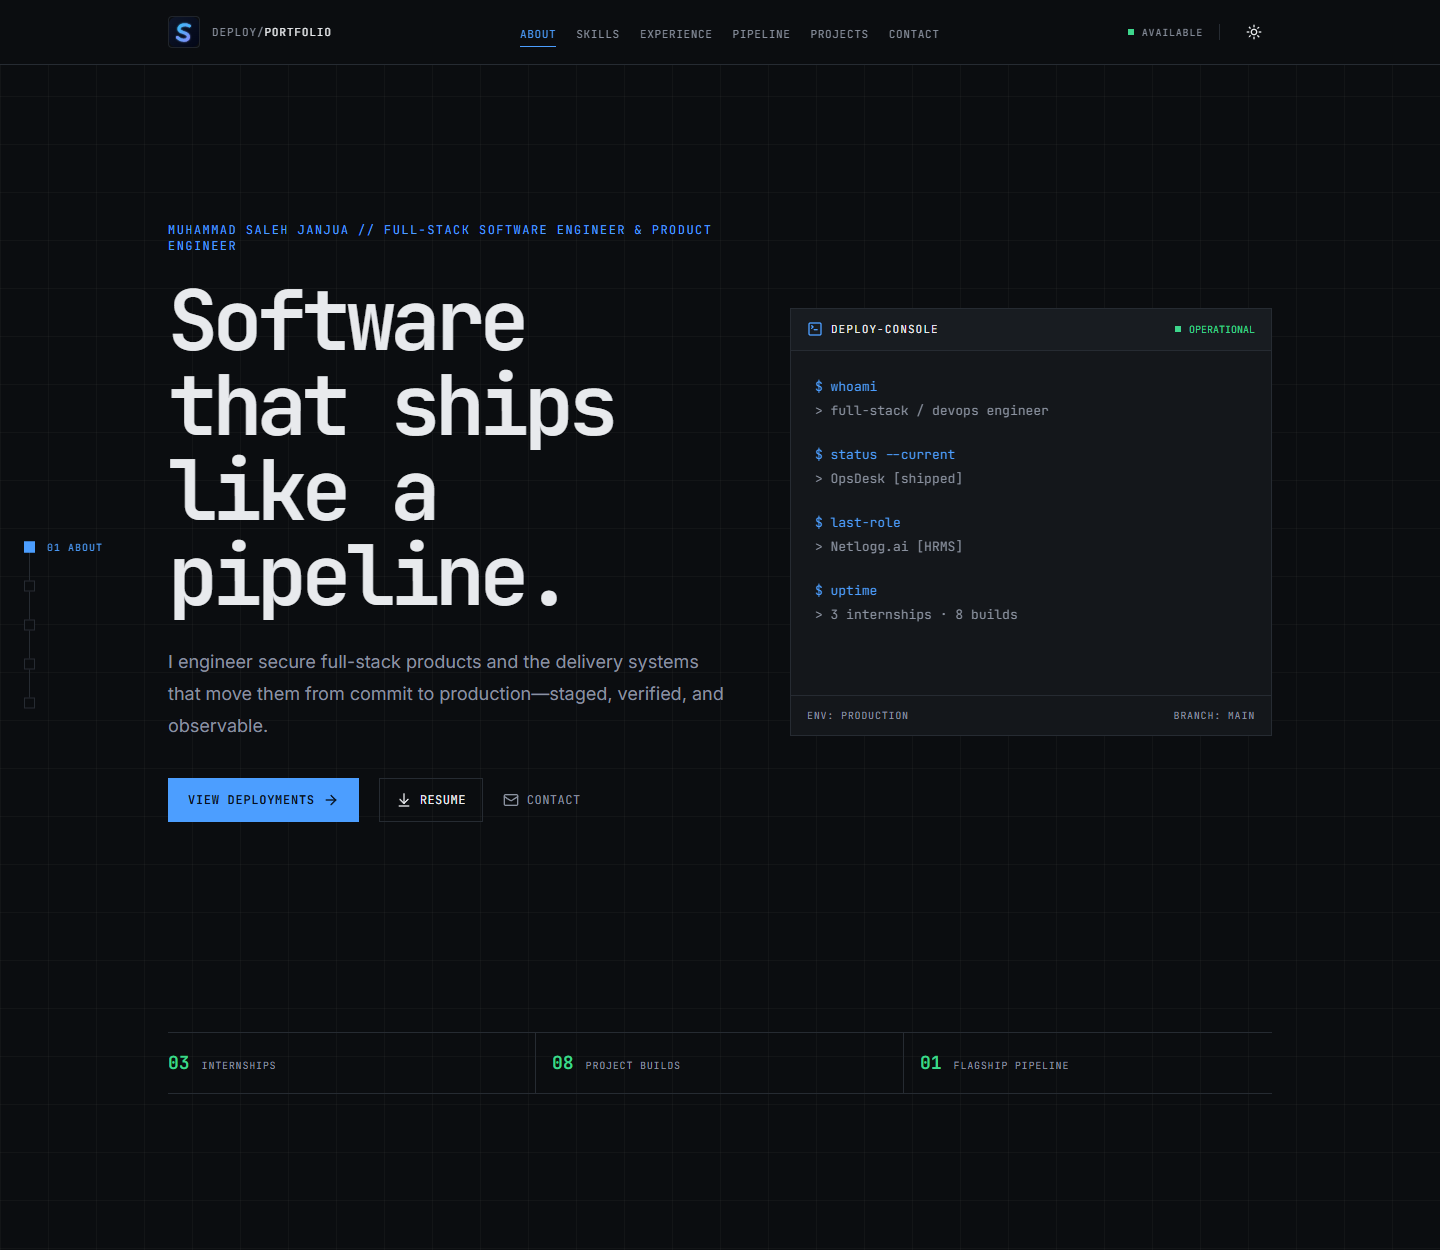
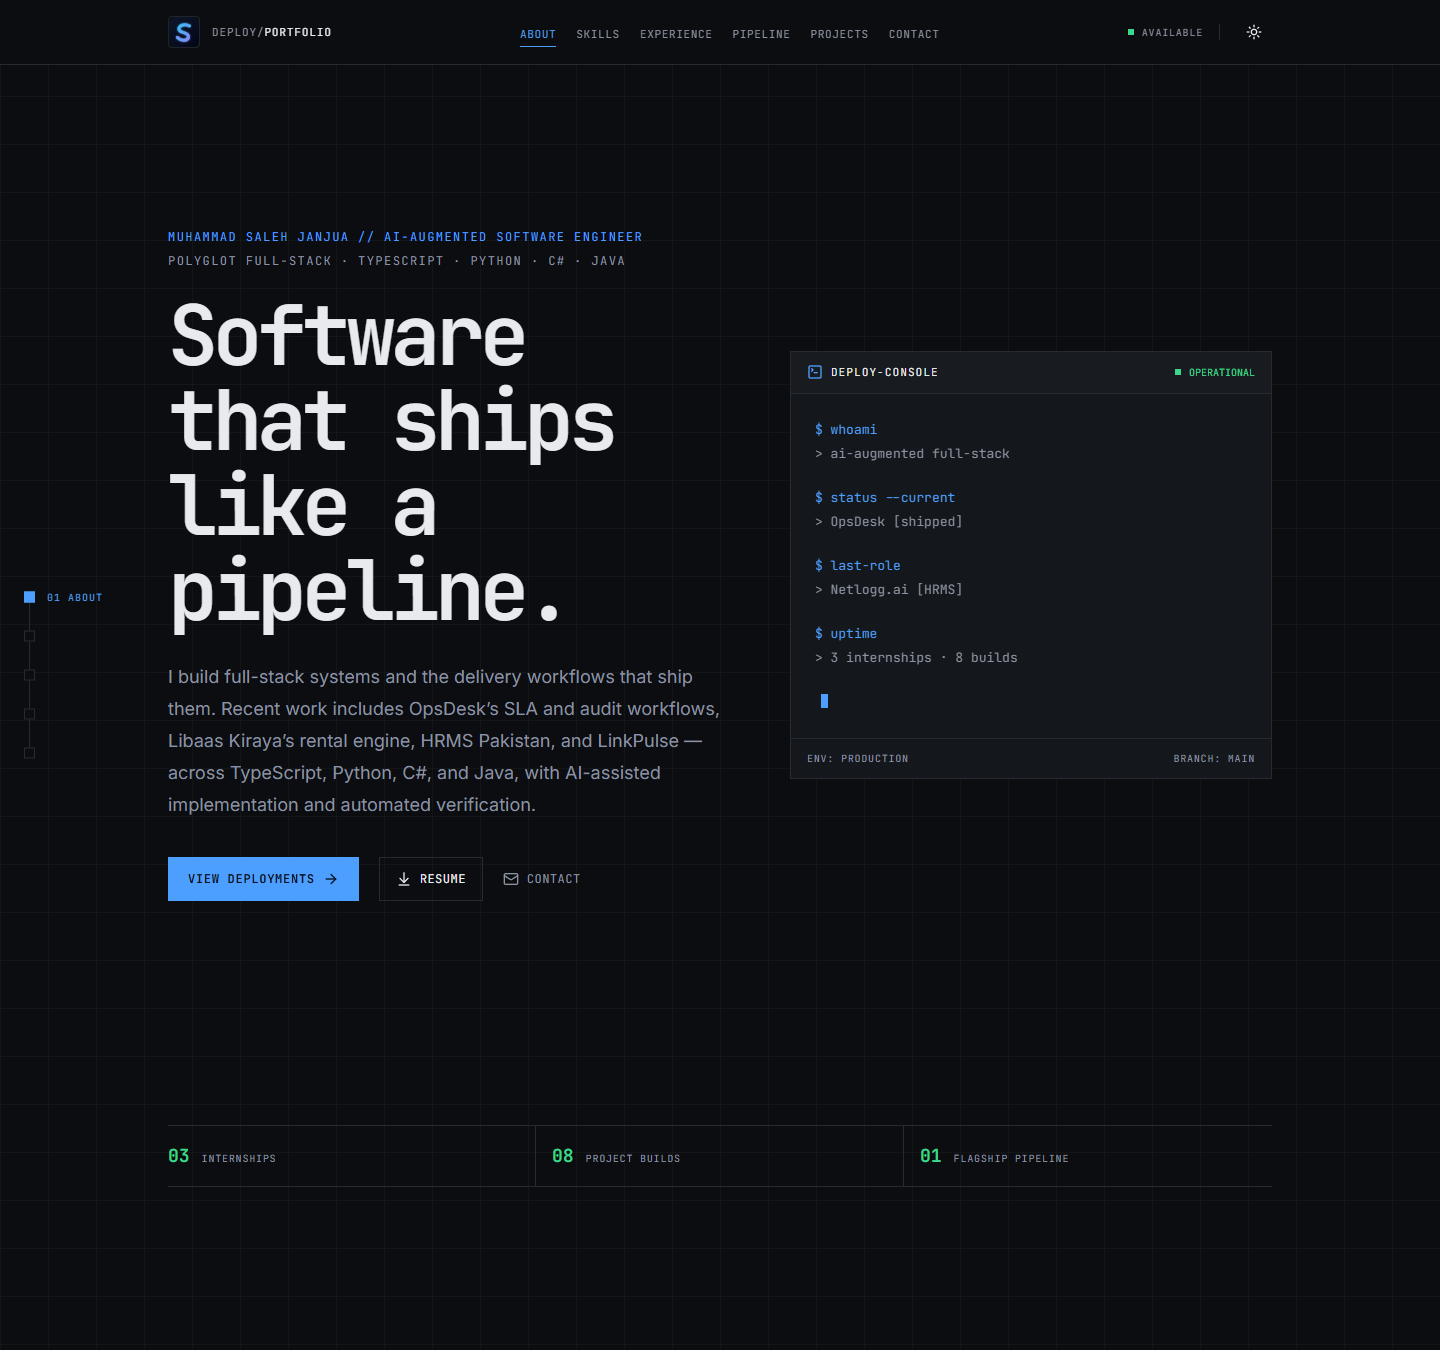
Reposition portfolio as AI-augmented software engineer

diff --git a/components/sections/about.tsx b/components/sections/about.tsx
@@ -7,23 +7,23 @@ const capabilities = [
   {
     icon: Code2,
     code: "01 / BUILD",
-    title: "Product engineering",
+    title: "AI-assisted product engineering",
     description:
-      "Accessible React interfaces backed by dependable Node.js and Python services.",
+      "Scoped agent-assisted implementation and test generation, followed by human review of diffs, validation, authorization, and edge cases.",
   },
   {
     icon: GitBranch,
     code: "02 / SHIP",
-    title: "Delivery automation",
+    title: "Polyglot systems",
     description:
-      "Repeatable CI/CD workflows with quality gates from commit through deployment.",
+      "TypeScript, Python, C#, and Java used across real projects, from Next.js and NestJS APIs to FastAPI services and .NET/Blazor apps.",
   },
   {
     icon: ShieldCheck,
-    code: "03 / SECURE",
-    title: "Operational confidence",
+    code: "03 / VERIFY",
+    title: "Delivery and verification",
     description:
-      "Security-minded implementation, validation, and maintainable infrastructure.",
+      "Automated tests, CI/CD, deployment checks, and production-minded workflows rather than one-off manual releases.",
   },
 ];
 
@@ -34,7 +34,7 @@ export function About() {
         <SectionHeading
           eyebrow="profile.init"
           title="Engineering the product and the path to production."
-          subtitle="I work across the application boundary where interface decisions, backend reliability, and delivery systems meet."
+          subtitle="I build full-stack systems across TypeScript, Python, C#, and Java, and use AI-assisted workflows for implementation, tests, and review—then verify through CI and deployment checks."
         />
 
         <div className="grid items-start gap-12 lg:grid-cols-[20rem_1fr]">
@@ -63,15 +63,16 @@ export function About() {
           <AnimatedWrapper delay={0.08}>
             <div className="text-muted-foreground max-w-3xl space-y-5 text-lg leading-8">
               <p>
-                I am a software engineer focused on thoughtful web experiences,
-                automation, and secure delivery workflows. My work spans React and Next.js
-                interfaces, Node.js and Python services, and CI/CD systems with Jenkins,
-                Docker, and GitHub Actions.
+                I am an AI-augmented software engineer. I build full-stack systems and the
+                delivery workflows around them, working across TypeScript/Next.js,
+                Python/FastAPI, C#/.NET, and Java/Spring Boot.
               </p>
               <p>
-                I enjoy solving problems end to end: translating a product need into a
-                reliable system, shaping the developer workflow around it, and keeping the
-                result maintainable in production.
+                Recent work includes OpsDesk (SLA automation, RBAC, optimistic locking,
+                transactional outbox, audit trails), Libaas Kiraya (a Medusa v2 rental
+                marketplace with date-aware availability), HRMS Pakistan at Netlogg.ai
+                (employee, attendance, leave, and payroll workflows), and LinkPulse (.NET
+                10 / Blazor link analytics).
               </p>
             </div>
 

diff --git a/components/sections/skills.tsx b/components/sections/skills.tsx
@@ -7,15 +7,22 @@ const tracks = [
     id: "app-stack",
     index: "01",
     title: "Application stack",
-    description: "Frontend, backend, data, and product tooling for complete web systems.",
-    categories: ["Frontend", "Backend", "Data", "Tools"],
+    description: "Interfaces, APIs, and services for complete product flows.",
+    categories: ["Frontend", "Backend"],
   },
   {
-    id: "delivery-stack",
+    id: "platform-stack",
     index: "02",
-    title: "Delivery stack",
-    description: "Automation and security practices for dependable releases.",
-    categories: ["DevOps", "DevSecOps"],
+    title: "Platform stack",
+    description: "Data, automation, and the runtime path to production.",
+    categories: ["Data", "DevOps"],
+  },
+  {
+    id: "engineering-stack",
+    index: "03",
+    title: "Engineering stack",
+    description: "Security, AI-assisted workflow, and the tools around the codebase.",
+    categories: ["DevSecOps", "AI", "Tools"],
   },
 ];
 
@@ -26,10 +33,10 @@ export function Skills() {
         <SectionHeading
           eyebrow="capabilities.list"
           title="A stack built around shipping reliably."
-          subtitle="Tools are grouped by the job they perform in the system not by logo walls or trend lists."
+          subtitle="Tools are grouped by the job they perform in the system, not by logo walls or trend lists."
         />
 
-        <div className="bg-border grid gap-px lg:grid-cols-2">
+        <div className="bg-border grid gap-px lg:grid-cols-3">
           {tracks.map((track, index) => (
             <AnimatedWrapper
               key={track.id}
@@ -58,7 +65,7 @@ export function Skills() {
                 {track.description}
               </p>
 
-              <ul className="bg-border mt-7 grid grid-cols-1 gap-px sm:grid-cols-2">
+              <ul className="bg-border mt-7 grid grid-cols-1 gap-px">
                 {skills
                   .filter((skill) => track.categories.includes(skill.category))
                   .map((skill) => (

diff --git a/components/sections/hero.tsx b/components/sections/hero.tsx
@@ -15,7 +15,10 @@ export function Hero() {
         <div>
           <AnimatedWrapper delay={0.08}>
             <p className="text-primary font-mono text-xs tracking-[0.12em] uppercase">
-              Muhammad Saleh Janjua // Full-Stack Software Engineer & Product Engineer
+              Muhammad Saleh Janjua // AI-Augmented Software Engineer
+              <span className="text-muted-foreground mt-2 block">
+                Polyglot full-stack · TypeScript · Python · C# · Java
+              </span>
             </p>
           </AnimatedWrapper>
 
@@ -27,8 +30,10 @@ export function Hero() {
 
           <AnimatedWrapper delay={0.24}>
             <p className="text-muted-foreground mt-7 max-w-xl text-lg leading-8">
-              I engineer secure full-stack products and the delivery systems that move
-              them from commit to production—staged, verified, and observable.
+              I build full-stack systems and the delivery workflows that ship them. Recent
+              work includes OpsDesk’s SLA and audit workflows, Libaas Kiraya’s rental
+              engine, HRMS Pakistan, and LinkPulse — across TypeScript, Python, C#, and
+              Java, with AI-assisted implementation and automated verification.
             </p>
           </AnimatedWrapper>
 

diff --git a/config/site.ts b/config/site.ts
@@ -1,8 +1,8 @@
 export const siteConfig = {
   name: "Muhammad Saleh Janjua",
-  title: "Muhammad Saleh Janjua — Full-Stack Development & DevOps / CI-CD",
+  title: "Muhammad Saleh Janjua — AI-Augmented Software Engineer",
   description:
-    "Full-stack developer building secure applications and reliable CI/CD pipelines with React, Next.js, Node.js, Python, Jenkins, and Docker.",
+    "AI-augmented software engineer building full-stack systems across TypeScript, Python, C#, and Java, with project work in IT service management, rental marketplaces, HRMS, and .NET analytics, plus tested CI/CD delivery.",
   url: process.env.NEXT_PUBLIC_SITE_URL ?? "https://portfolio-salesmayn.vercel.app",
   ogImage: "/opengraph-image",
   icon: "/images/portfolio-icon.svg",

diff --git a/data/skills.ts b/data/skills.ts
@@ -17,6 +17,11 @@ export const skills: Skill[] = [
   { name: "PostgreSQL", icon: "postgresql", category: "Data" },
   { name: "Prisma ORM", icon: "prisma", category: "Data" },
   { name: "Firebase", icon: "firebase", category: "Data" },
+  { name: "Redis", icon: "redis", category: "Data" },
   { name: "Git & GitHub", icon: "github", category: "Tools" },
   { name: "Figma", icon: "figma", category: "Tools" },
+  { name: "AI-assisted implementation", icon: "ai", category: "AI" },
+  { name: "Agentic coding workflows", icon: "ai", category: "AI" },
+  { name: "AI test generation", icon: "ai", category: "AI" },
+  { name: "AI-assisted code review", icon: "ai", category: "AI" },
 ];

diff --git a/components/sections/experience.tsx b/components/sections/experience.tsx
@@ -10,7 +10,7 @@ export function Experience() {
         <SectionHeading
           eyebrow="history.log"
           title="Experience measured in systems improved"
-          subtitle="Hands-on engineering work across product delivery, platform reliability, and frontend performance."
+          subtitle="Product engineering, backend systems, AI-assisted delivery, and production verification across three internships."
         />
 
         <div className="border-border border-t">

diff --git a/components/common/status-terminal.tsx b/components/common/status-terminal.tsx
@@ -4,7 +4,7 @@ import type { CSSProperties } from "react";
 import { TerminalSquare } from "lucide-react";
 
 const entries = [
-  { command: "$ whoami", output: "> full-stack / devops engineer" },
+  { command: "$ whoami", output: "> ai-augmented full-stack" },
   { command: "$ status --current", output: "> OpsDesk [shipped]" },
   { command: "$ last-role", output: "> Netlogg.ai [HRMS]" },
   { command: "$ uptime", output: "> 3 internships · 8 builds" },

diff --git a/app/opengraph-image.tsx b/app/opengraph-image.tsx
@@ -18,7 +18,7 @@ export default function OpenGraphImage() {
     >
       <div style={{ display: "flex", flexDirection: "column", gap: "28px" }}>
         <p style={{ color: "#4c9eff", fontFamily: "monospace", fontSize: 24, margin: 0 }}>
-          &gt; DEPLOYMENT PROFILE // SOFTWARE ENGINEER
+          &gt; DEPLOYMENT PROFILE // AI-AUGMENTED SOFTWARE ENGINEER
         </p>
         <h1
           style={{

diff --git a/types/index.ts b/types/index.ts
@@ -1,5 +1,5 @@
 export type SkillCategory =
-  "Frontend" | "Backend" | "DevOps" | "DevSecOps" | "Data" | "Tools";
+  "Frontend" | "Backend" | "DevOps" | "DevSecOps" | "Data" | "Tools" | "AI";
 
 export interface Skill {
   name: string;

diff --git a/README.md b/README.md
@@ -1,6 +1,6 @@
 # Muhammad Saleh Janjua — Engineering Portfolio
 
-**Full-Stack Development · DevOps / CI-CD**
+**AI-Augmented Software Engineer · Polyglot Full-Stack · Delivery**
 
 [View the live portfolio](https://portfolio-salesmayn.vercel.app) ·
 [GitHub](https://github.com/salesmayn-code) ·
@@ -9,9 +9,10 @@
 
 > Software that ships like a pipeline: staged, verified, and deployed.
 
-This repository powers my personal engineering portfolio. It presents the work I do across
-the complete delivery path—from accessible interfaces and backend services to automated,
-secure production workflows.
+This repository powers my personal engineering portfolio. I build full-stack systems and
+the delivery workflows around them, working across TypeScript/Next.js, Python/FastAPI,
+C#/.NET, and Java/Spring Boot. I use AI-assisted implementation and test generation, then
+review and verify the result with automated tests and CI.
 
 The home page leads with OpsDesk, Libaas Kiraya, and HRMS Pakistan. The rest of the work
 lives in the [project archive](https://portfolio-salesmayn.vercel.app/projects).
@@ -22,10 +23,10 @@ lives in the [project archive](https://portfolio-salesmayn.vercel.app/projects).
 
 ## Engineering focus
 
-- Building full-stack products with React, Next.js, TypeScript, Node.js, and Python
-- Designing CI/CD workflows with Jenkins, GitHub Actions, Docker, Nginx, and PM2
-- Applying secure authentication, validation, and secrets-management practices
-- Improving reliability, maintainability, performance, and developer workflow
+- Building full-stack systems across TypeScript/Next.js, Python/FastAPI, C#/.NET, and Java/Spring Boot
+- Designing APIs, PostgreSQL data models, RBAC, SLA/audit workflows, and transactional outbox patterns
+- Using AI-assisted implementation and test generation with human review, then validating through automated tests and CI/CD
+- Shipping with Jenkins, GitHub Actions, Docker, PM2, and Nginx
 
 ## Selected work
 
@@ -99,21 +100,23 @@ The interface uses a deployment-control-surface aesthetic inspired by the system
 - JetBrains Mono for technical hierarchy and Inter for readable body content
 - Dark and light themes with reduced-motion accessibility support
 - A flagship-first home page with a separate project archive and live GitHub activity feed
+- An AI-augmented workflow using agents for scoped implementation and test generation, with human review and verification
 
 ## Technical foundation
 
-| Area         | Technologies                               |
-| ------------ | ------------------------------------------ |
-| Application  | Next.js 16, React 19, TypeScript           |
-| Interface    | Tailwind CSS 4, Framer Motion, shadcn/ui   |
-| Validation   | React Hook Form, Zod                       |
-| Integrations | GitHub API, Vercel Analytics               |
-| Delivery     | pnpm, ESLint, Prettier, Husky, lint-staged |
-| Hosting      | Vercel                                     |
+| Area         | Technologies                                                    |
+| ------------ | --------------------------------------------------------------- |
+| Application  | Next.js 16, React 19, TypeScript                                |
+| Interface    | Tailwind CSS 4, Framer Motion, shadcn/ui                        |
+| Validation   | React Hook Form, Zod                                            |
+| Integrations | GitHub API, Vercel Analytics                                    |
+| Delivery     | pnpm, ESLint, Prettier, Husky, lint-staged                      |
+| Workflow     | Agent-assisted implementation, AI test generation, human review |
+| Hosting      | Vercel                                                          |
 
 ## Contact
 
-I am open to full-stack, DevOps, CI/CD, and software-engineering opportunities.
+I am open to AI-augmented software engineering, full-stack/backend, and platform or delivery roles.
 
 **Muhammad Saleh Janjua**
 
